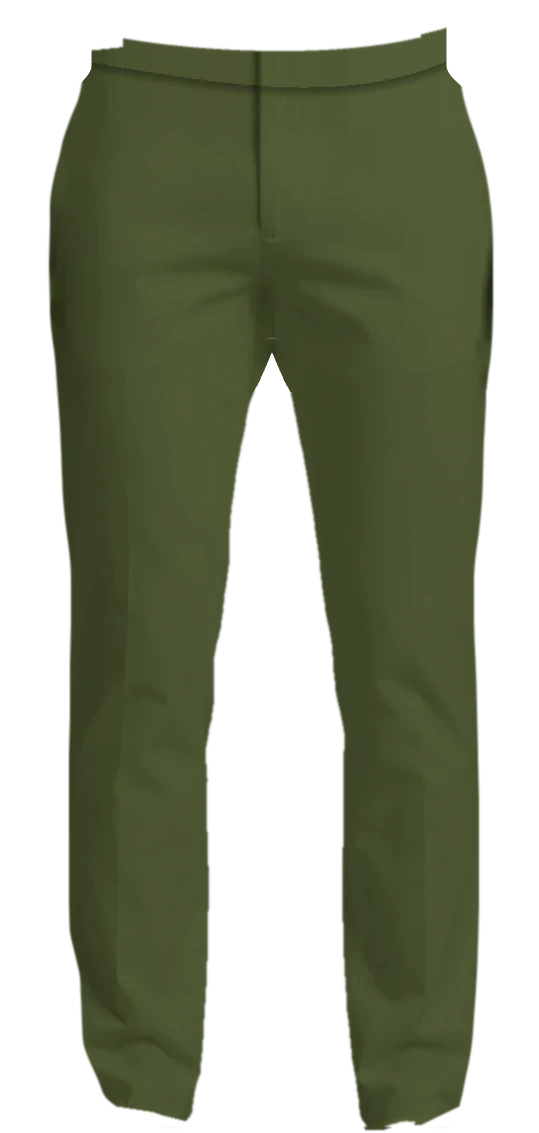
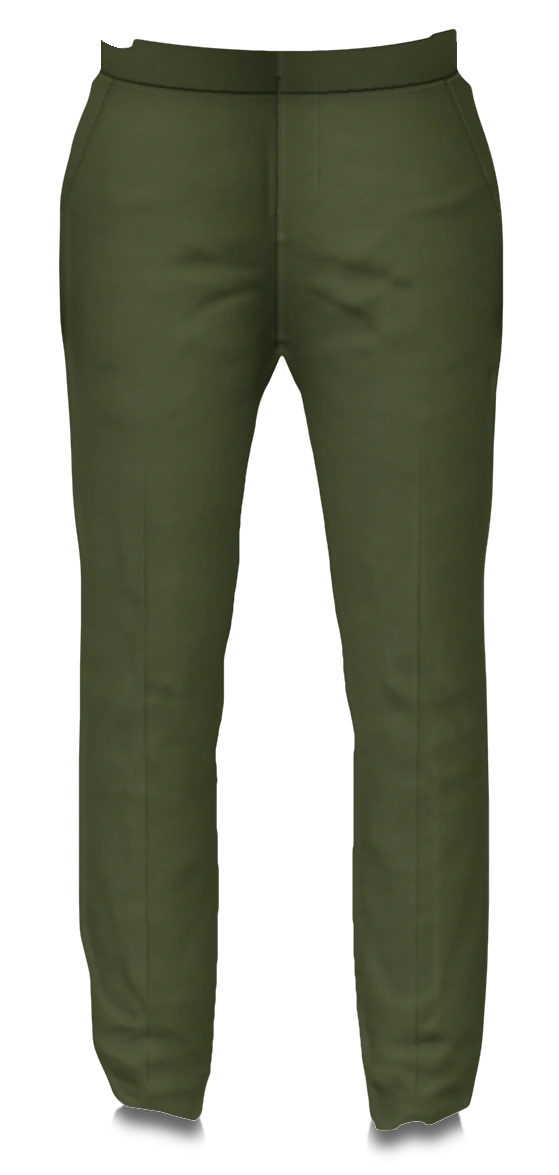
Vestidor: gráficos realistas (telas, luz, sombras y cinturón 3D)
Claude-Session: https://claude.ai/code/session_01Pxikp3TffADm1DhjRtU2ev

diff --git a/vestidor.js b/vestidor.js
@@ -16,7 +16,7 @@
   var REDUCED = window.matchMedia && matchMedia("(prefers-reduced-motion: reduce)").matches;
 
   var CSS = [
-    "#mc-vest{position:relative;width:100%;aspect-ratio:1500/2009;overflow:hidden;background:#c9c9cb;border-radius:4px}",
+    "#mc-vest{position:relative;width:100%;aspect-ratio:1500/2009;overflow:hidden;background:#b1a99a;border-radius:4px}",
     "#mc-vest .mc-cam{position:absolute;inset:0;transform-origin:0 0;transition:transform .7s cubic-bezier(.65,.05,.25,1);will-change:transform}",
     "#mc-vest img{position:absolute;display:block;max-width:none;margin:0;padding:0;border:0;user-select:none;-webkit-user-drag:none;pointer-events:none}",
     "#mc-vest img.mc-l{opacity:0;visibility:hidden;transition:opacity .3s ease}",
@@ -36,7 +36,7 @@
     "#mc-vest .mc-hint:focus-visible{outline:2px solid #fff;outline-offset:2px}",
     "#mc-vest .mc-hint.alt{background:#0d0b09cc;color:#efe6d6;border:1px solid #c9a24f88}",
     "#mc-vest .mc-hint svg{width:14px;height:14px;flex:none}",
-    "#mc-vest .mc-load{position:absolute;inset:0;z-index:40;display:flex;align-items:center;justify-content:center;background:#c9c9cb;color:#555;font:12px Arial,sans-serif;letter-spacing:.2em;text-transform:uppercase}",
+    "#mc-vest .mc-load{position:absolute;inset:0;z-index:40;display:flex;align-items:center;justify-content:center;background:#b1a99a;color:#3d382f;font:12px Arial,sans-serif;letter-spacing:.2em;text-transform:uppercase}",
     "@media (prefers-reduced-motion:reduce){#mc-vest .mc-cam,#mc-vest img.mc-l{transition:none}#mc-vest .mc-sweep.go{animation:none}}"
   ].join("\n");
 
@@ -101,6 +101,13 @@
       L.imgs = L.colors.map(function (_, n) {
         return img(L.id + "-" + n + ".webp", L.box, L.z, "mc-l" + (n === 0 ? " on" : ""));
       });
+      // Capa extra que cambia con este color pero va por encima de otra prenda
+      // (por ejemplo, las presillas del pantalón sobre el cinturón).
+      if (L.over) {
+        L.overImgs = L.colors.map(function (_, n) {
+          return img(L.over.id + "-" + n + ".webp", L.over.box, L.over.z, "mc-l" + (n === 0 ? " on" : ""));
+        });
+      }
       bySlot[L.slot] = L;
     });
     Promise.all(loads).then(function () { root.querySelector(".mc-load").style.display = "none"; });
@@ -143,16 +150,21 @@
     frame();
   }
 
-  function show(L, n, animate) {
-    if (n < 0 || n === L.cur || !L.imgs) return;
-    var prev = L.imgs[L.cur], next = L.imgs[n];
-    L.imgs.forEach(function (i) { if (i !== prev && i !== next) i.classList.remove("on", "under"); });
+  function swap(imgs, from, to, z, animate) {
+    var prev = imgs[from], next = imgs[to];
+    imgs.forEach(function (i) { if (i !== prev && i !== next) i.classList.remove("on", "under"); });
     prev.classList.remove("on");
     prev.classList.add("under");
-    next.style.zIndex = L.z + 1;
+    next.style.zIndex = z + 1;
     next.classList.add("on");
-    var done = function () { prev.classList.remove("under"); next.style.zIndex = L.z; };
+    var done = function () { prev.classList.remove("under"); next.style.zIndex = z; };
     if (REDUCED || !animate) done(); else setTimeout(done, 320);
+  }
+
+  function show(L, n, animate) {
+    if (n < 0 || n === L.cur || !L.imgs) return;
+    swap(L.imgs, L.cur, n, L.z, animate);
+    if (L.overImgs) swap(L.overImgs, L.cur, n, L.over.z, animate);
     L.cur = n;
     if (animate && !REDUCED) { sweep.classList.remove("go"); void sweep.offsetWidth; sweep.classList.add("go"); }
   }

diff --git a/README.md b/README.md
@@ -10,6 +10,8 @@ Netlify publica esta carpeta y Google Tag Manager carga `vestidor.js` en la pág
    `n` es la posición en esa lista, empezando en 0. El nombre tiene que coincidir con el de
    Tienda Nube (no importan mayúsculas ni acentos).
 
+Si es un color de pantalón, subir también `loops-<n>.webp` (las presillas de ese color, que van sobre el cinturón).
+
 ## Cómo agregar una prenda nueva (por ejemplo, relojes)
 Agregar un bloque en `layers` de `config.json` con `id`, `name`, `slot` (posición de la prenda en el
 combo, empezando en 0), `box` (x, y, ancho, alto sobre un lienzo de 1500×2009), `z` (orden de capa),
